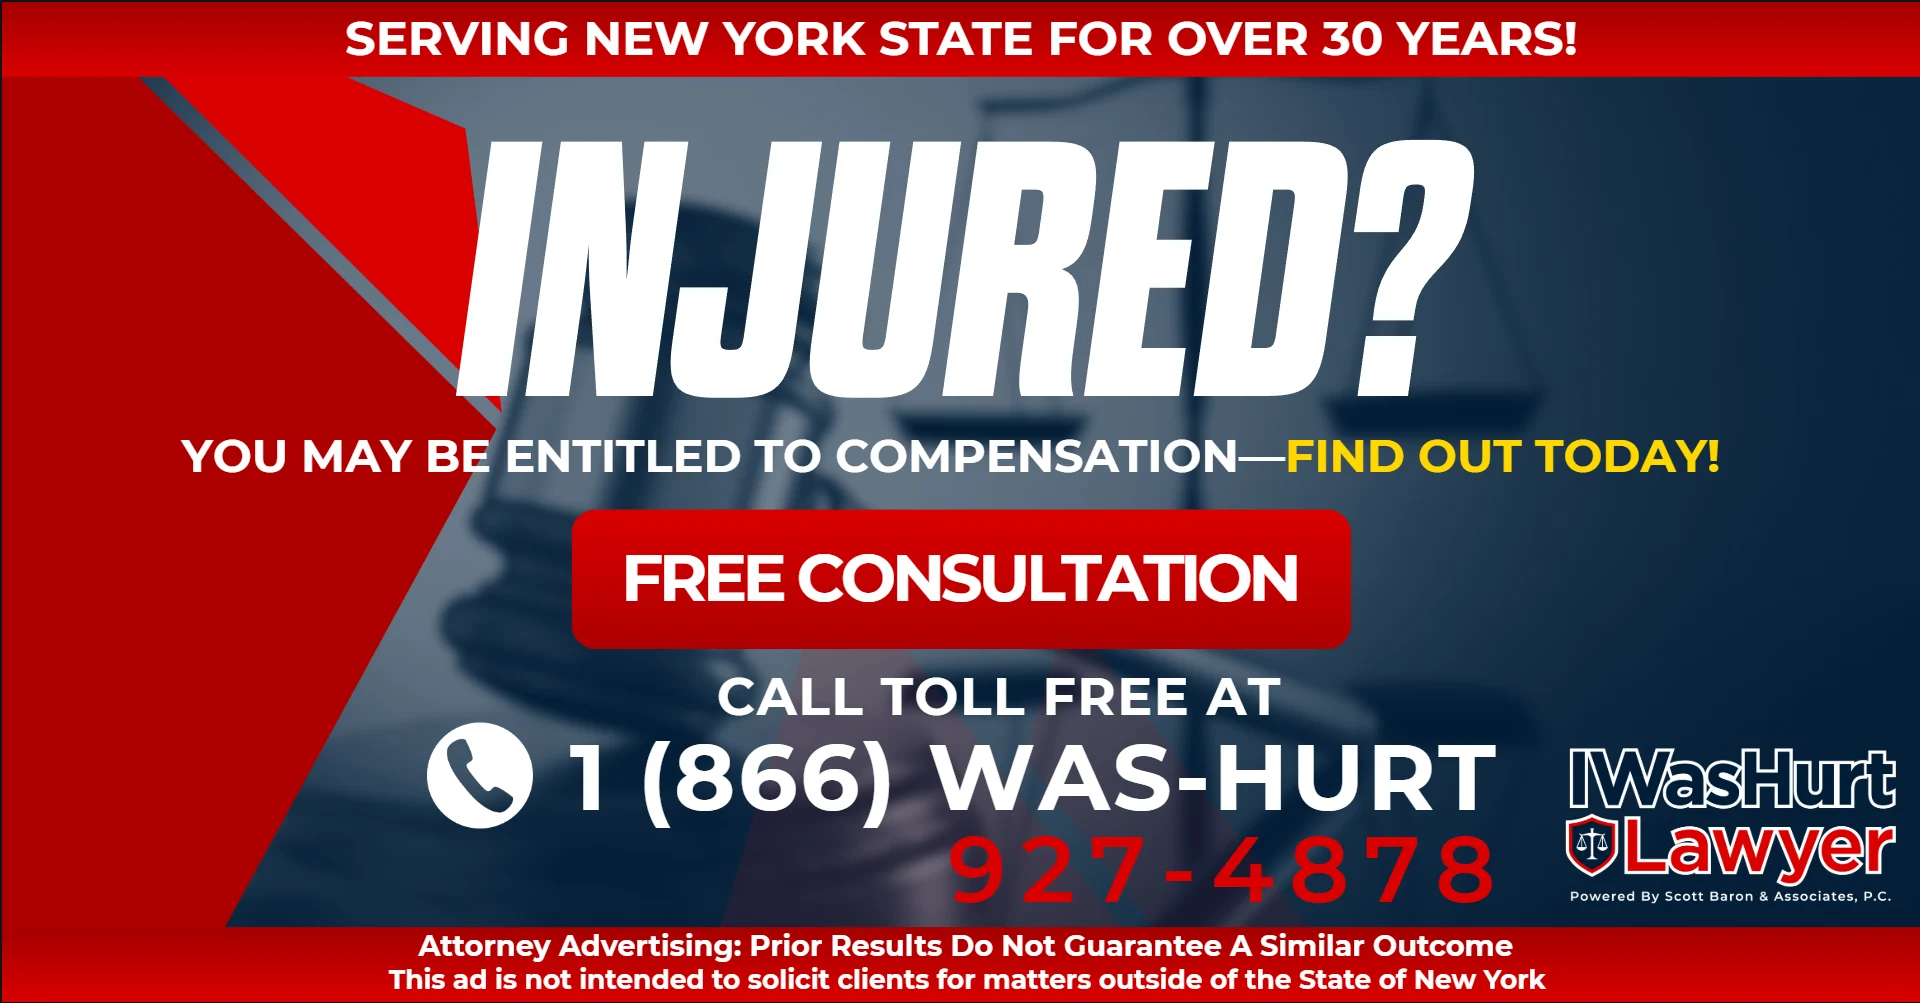
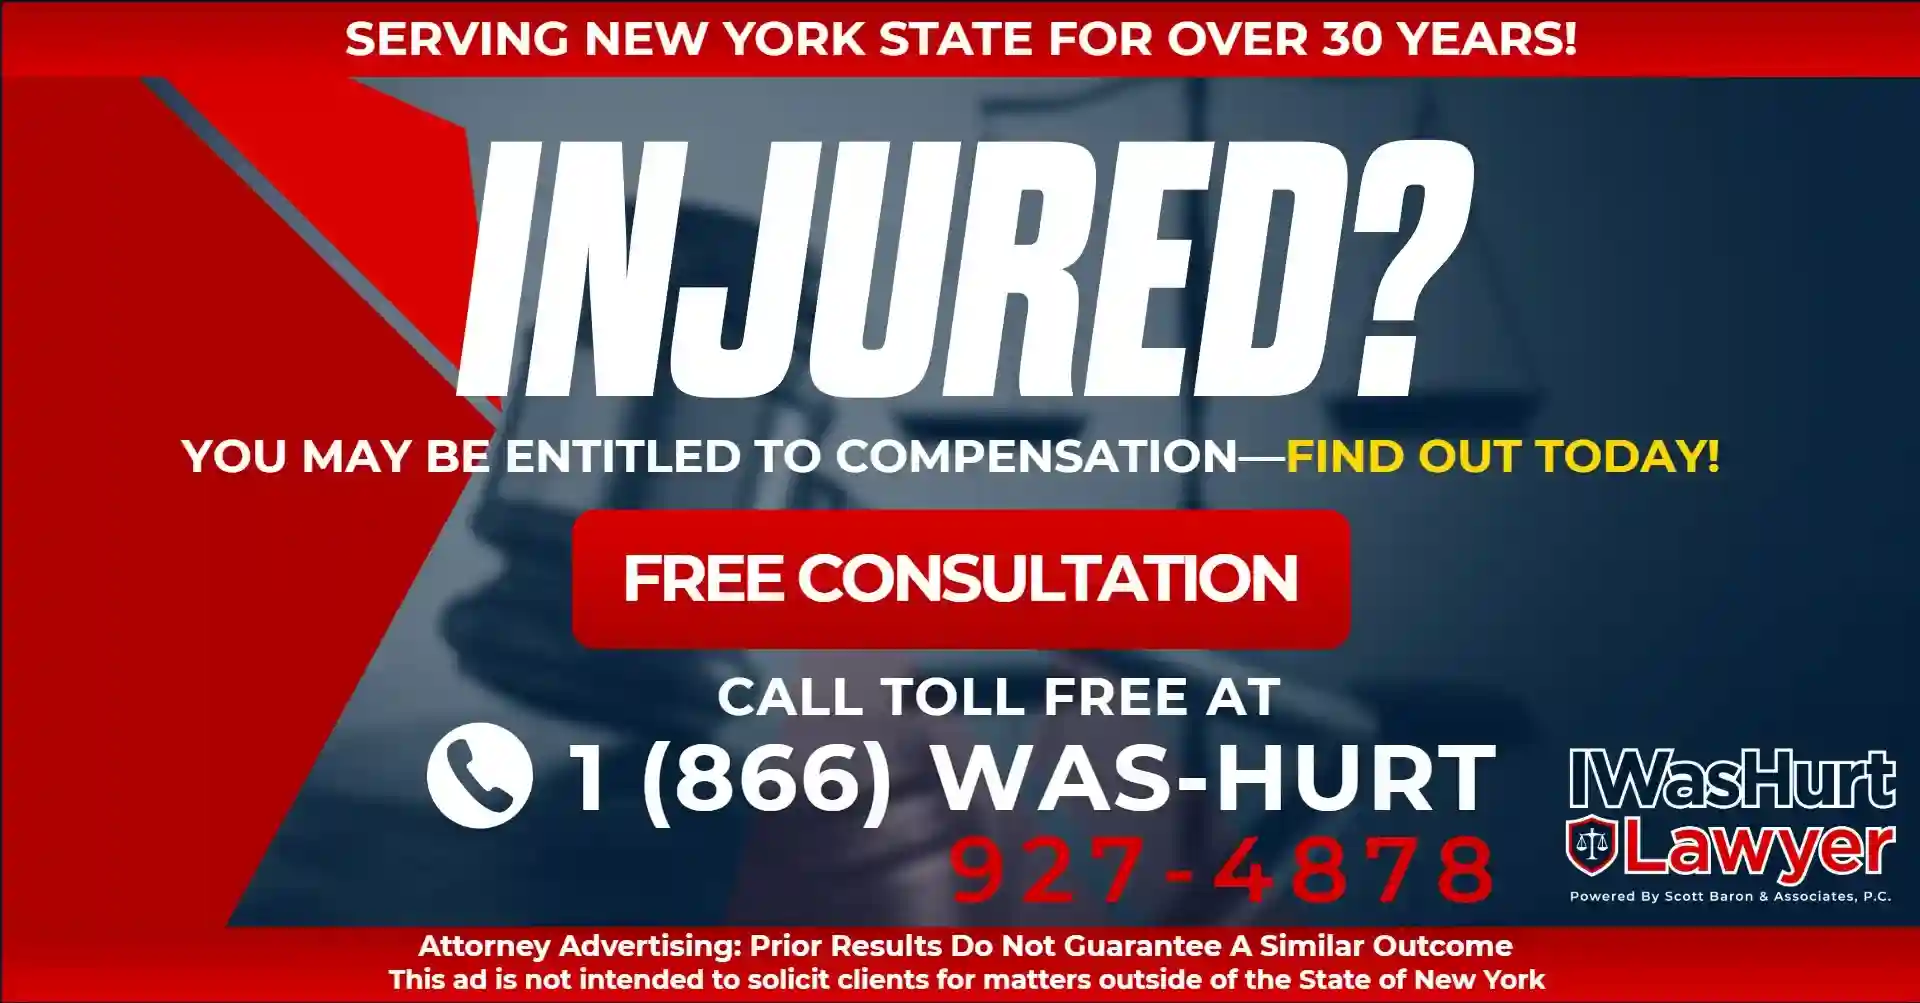
updated

diff --git a/components/header/Banner.tsx b/components/header/Banner.tsx
@@ -17,6 +17,9 @@ const Banner = () => {
     const formSchema = subscribtionFormSchema();
     const pathname = usePathname();
     const [showToast, setShowToast] = useState(false);
+    const [toastType, setToastType] = useState<'success' | 'error' | 'alreadyUnsubscribed'>('success');
+    const [toastTitle, setToastTitle] = useState<string>('Success');
+    const [toastDescription, setToastDescription] = useState<string>('Thanks For Subscribing.');
     const [res, setRes] = useState<string | null>(null);
 
     const form = useForm<z.infer<typeof formSchema>>({
@@ -35,16 +38,26 @@ const Banner = () => {
             const result = await response.json();
 
             if (!response.ok) {
+                setToastType('error');
+                setToastTitle('Subscription Failed');
+                setToastDescription(result.message || 'Failed to subscribe. Try again later');
+                setShowToast(true);
                 setRes(result.message);
             } else {
+                setToastType('success');
+                setToastTitle('Success');
+                setToastDescription('Thanks for subscribing!');
+                setShowToast(true);
                 setRes(null);
                 form.reset();
-                setShowToast(true);
-
             }
         } catch (error) {
             console.error(error);
-            setRes("Something went wrong");
+            setToastType('error');
+            setToastTitle('Error');
+            setToastDescription('Something went wrong.');
+            setShowToast(true);
+            setRes('Something went wrong');
         }
     };
 
@@ -60,7 +73,7 @@ const Banner = () => {
 
 
     const onChangeField = (e: any) => {
-        if (!e?.target?.value) form.reset() ;
+        if (!e?.target?.value) form.reset();
         setRes(null);
     }
 
@@ -119,6 +132,9 @@ const Banner = () => {
                 <CustomToast
                     show={showToast}
                     onClose={() => setShowToast(false)}
+                    title={toastTitle}
+                    description={toastDescription}
+                    type={toastType}
                 />
             </div>
         </section>

diff --git a/components/fontLinks/FontLinks.tsx b/components/fontLinks/FontLinks.tsx
@@ -1,12 +1,11 @@
 export default function FontLinks() {
   return (
     <>
-      <link rel="preconnect" href="https://fonts.gstatic.com" crossOrigin="anonymous" />
-      <link rel="preload" as="image" href="/topBanner.webp" media="(max-width: 640px)" />
+      {/* Preload images */}
+      <link rel="preload" as="image" href="/topBanner.avif" media="(max-width: 640px)" />
       <link rel="preload" as="image" href="/banner.webp" media="(min-width: 641px)" />
 
-
-      {/* Preload Custom Fonts */}
+      {/* Preload custom fonts */}
       <link
         rel="preload"
         href="/fonts/century-gothic/centurygothic.ttf"
@@ -18,21 +17,21 @@ export default function FontLinks() {
         rel="preload"
         href="/fonts/Montserrat/Montserrat-Regular.woff"
         as="font"
-        type="font/ttf"
+        type="font/woff"
         crossOrigin="anonymous"
       />
       <link
         rel="preload"
         href="/fonts/century-schoolbook/SCHLBKB.woff"
         as="font"
-        type="font/ttf"
+        type="font/woff"
         crossOrigin="anonymous"
       />
       <link
         rel="preload"
         href="/fonts/century-725/century-725-cn-bt.woff"
         as="font"
-        type="font/ttf"
+        type="font/woff"
         crossOrigin="anonymous"
       />
     </>

diff --git a/components/Ads/Adbanner.tsx b/components/Ads/Adbanner.tsx
@@ -9,7 +9,7 @@ const AdBanner = () => {
         <picture>
           {/* Mobile banner */}
           <source
-            srcSet="/topBanner.webp"
+            srcSet="/topBanner.avif"
             media="(max-width: 640px)"
           />
           {/* Desktop banner */}
